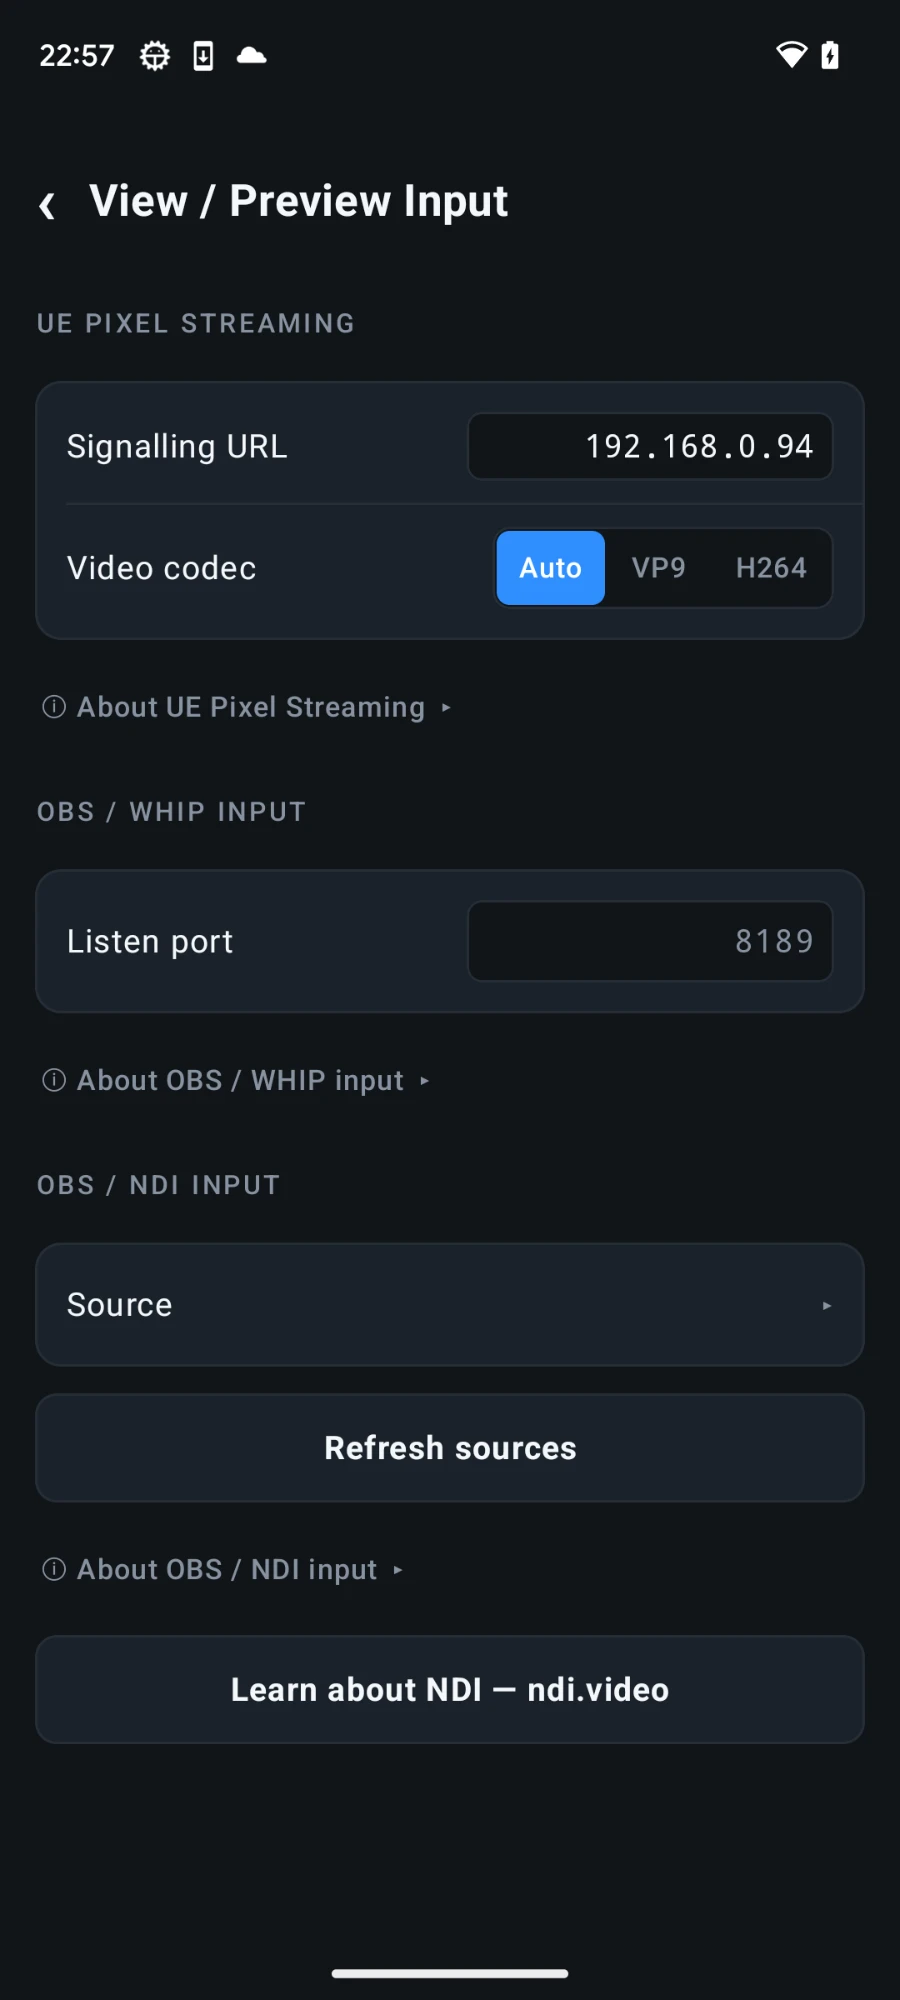
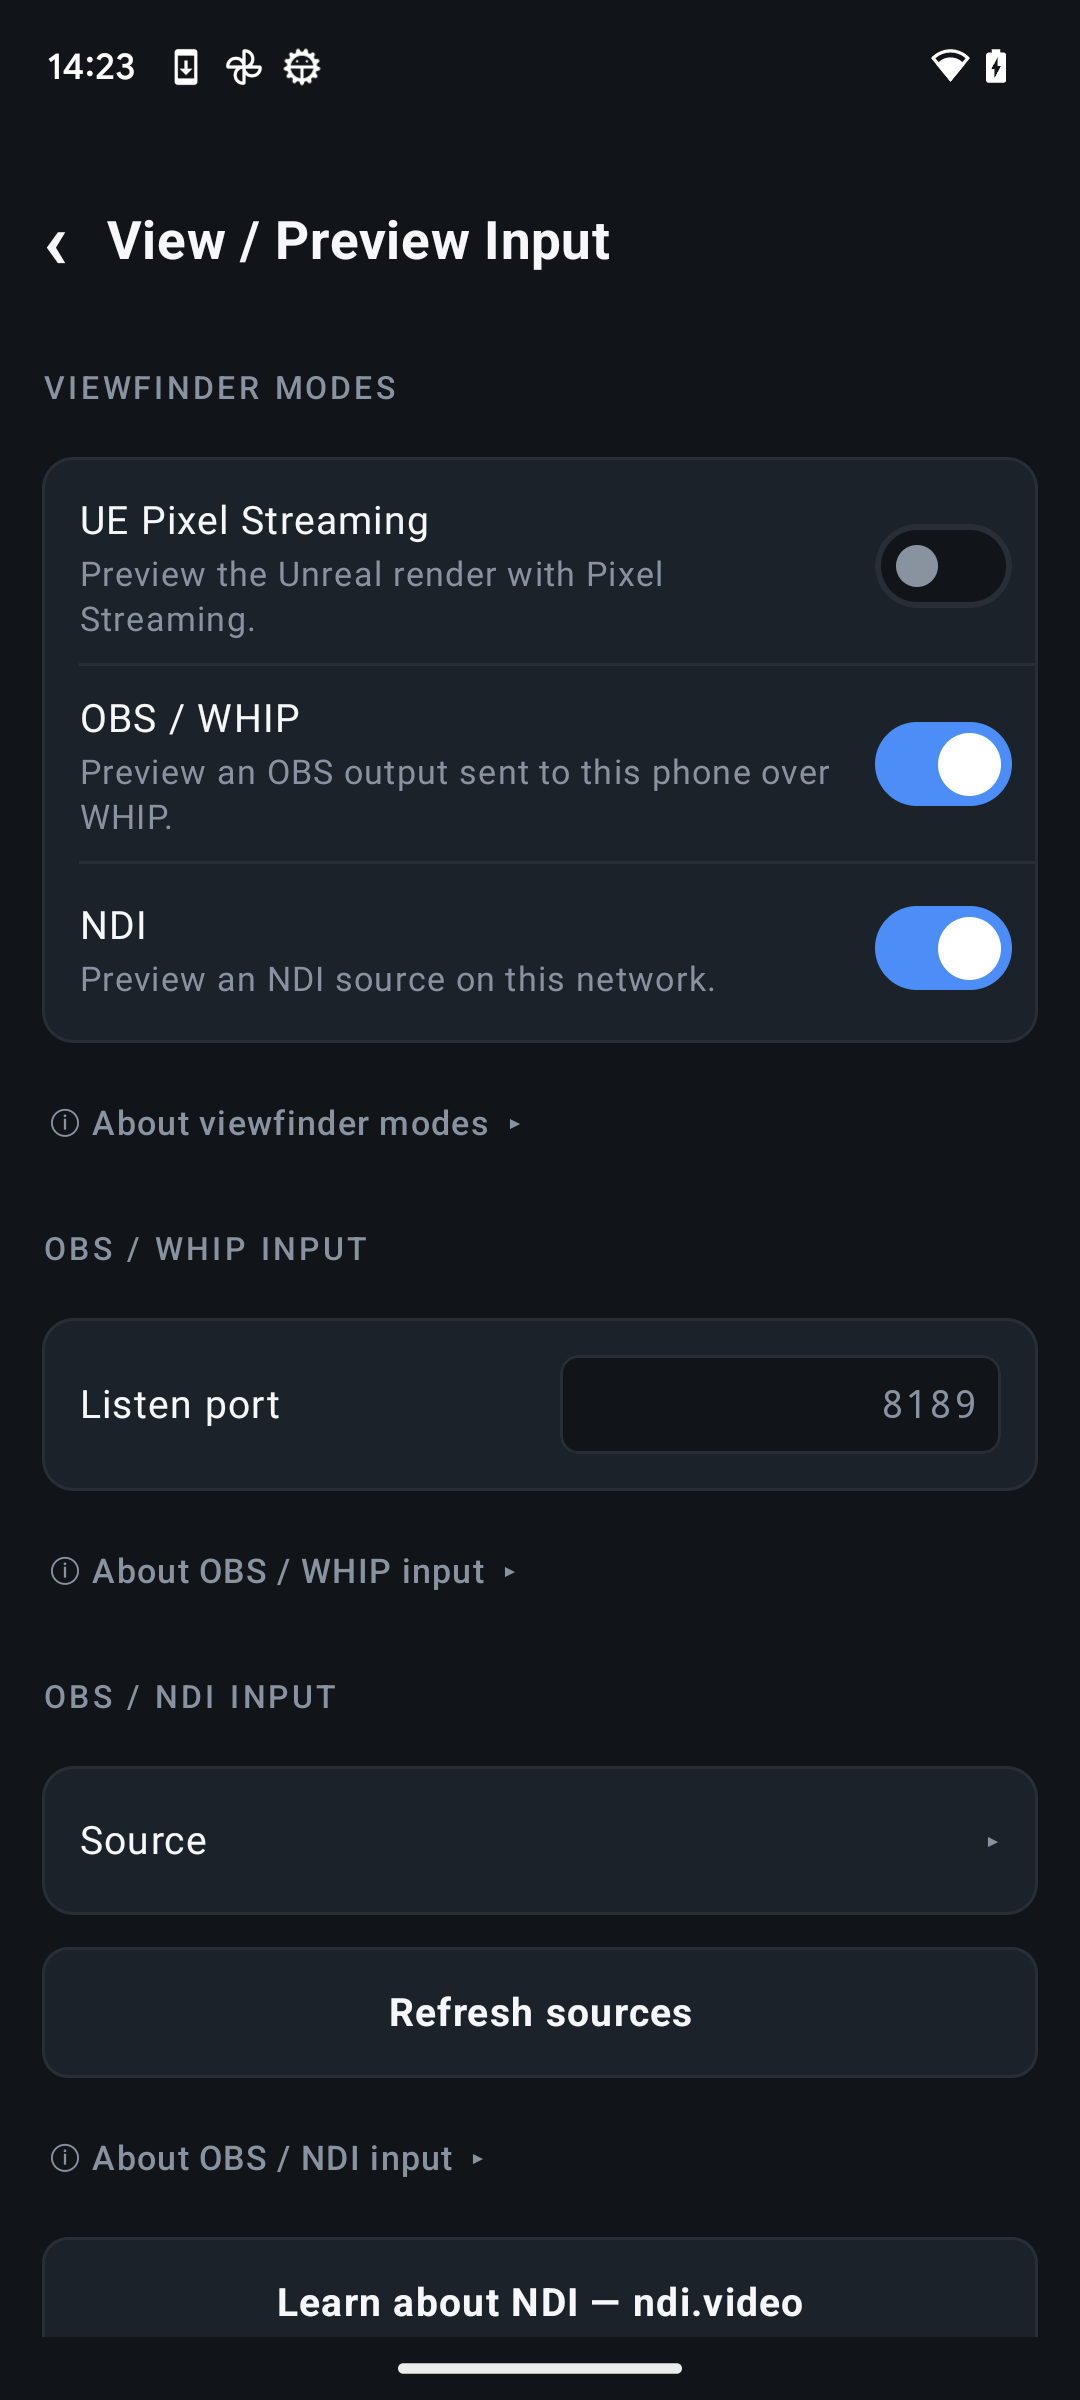
updated obs page

diff --git a/guides/obs-studio.html b/guides/obs-studio.html
@@ -33,6 +33,7 @@
           <a href="#phone">Prepare the phone</a>
           <a href="#whip">Option 1: WHIP</a>
           <a href="#ndi">Option 2: NDI</a>
+          <a href="#responsiveness">Reduce preview lag</a>
           <a href="#verify">Verify the viewfinder</a>
           <a href="#troubleshooting">Troubleshooting</a>
         </aside>
@@ -62,24 +63,26 @@
             <h2>Prepare the phone</h2>
             <ol>
               <li>Open <strong>Settings → View / Preview Input</strong> in 6DoF Camera Tracker.</li>
+              <li>Enable <strong>OBS / WHIP</strong>, <strong>NDI</strong>, or both, depending on the return-video methods you want to use.</li>
               <li>For WHIP, keep the default listen port <strong>8189</strong> unless it conflicts with another service.</li>
               <li>For NDI, use <strong>Refresh sources</strong> after the OBS output has been enabled.</li>
               <li>Return to the tracker and select <strong>OBS</strong> for WHIP or <strong>NDI</strong> for the DistroAV connection.</li>
             </ol>
-            <figure class="guide-figure"><img src="../assets/guides/11a_view_preview_input.png" alt="View and Preview Input settings for OBS WHIP and NDI in 6DoF Camera Tracker" loading="lazy"><figcaption>The app shows the exact WHIP URL for the current phone and lets you discover an NDI source on the local network.</figcaption></figure>
+            <figure class="guide-figure guide-figure-native"><img src="../assets/guides/11a_view_preview_input.png?v=2" alt="Updated View and Preview Input settings for OBS WHIP and NDI in 6DoF Camera Tracker" loading="lazy"><figcaption>Enable the required viewfinder modes, choose the WHIP listen port, and discover an NDI source on the local network.</figcaption></figure>
           </section>
 
           <section id="whip">
             <h2>Option 1: Connect with WHIP</h2>
             <ol>
               <li>On the phone, select the <strong>OBS</strong> viewfinder mode. The status should say that it is listening and waiting for OBS.</li>
-              <li>Copy the Server URL shown under <strong>Settings → View / Preview Input</strong>. It looks like <code>http://192.168.1.50:8189/whip</code>.</li>
+              <li>Build the Server URL from the phone's local IP address and the <strong>Listen port</strong> shown under <strong>Settings → View / Preview Input</strong>. It follows the format <code>http://PHONE_IP:8189/whip</code>.</li>
               <li>In OBS, open <strong>Settings → Stream</strong> and choose <strong>WHIP</strong> as the service.</li>
               <li>Paste the phone's address into <strong>Server</strong> and leave <strong>Bearer Token</strong> blank.</li>
               <li>Select <strong>Apply</strong>, close Settings, and choose <strong>Start Streaming</strong>.</li>
             </ol>
+            <figure class="guide-figure"><img src="../assets/guides/obs_whip_stream_settings.png" alt="OBS Stream settings configured for the WHIP service and the phone server address" loading="lazy"><figcaption>Select WHIP, enter the URL built from the phone IP and listen port, and leave Bearer Token empty.</figcaption></figure>
             <p>OBS now publishes its program output directly to the phone. The stream stops when you choose <strong>Stop Streaming</strong> in OBS or leave OBS mode in the app.</p>
-            <figure class="guide-figure"><img src="../assets/guides/11b_obs_whip_viewfinder.png" alt="OBS WHIP program feed displayed in the 6DoF Camera Tracker viewfinder" loading="lazy"><figcaption>WHIP needs no OBS plugin. Use the URL displayed by the phone and leave the bearer token empty.</figcaption></figure>
+            <figure class="guide-figure"><img src="../assets/guides/11b_obs_whip_viewfinder.png" alt="OBS WHIP program feed displayed in the 6DoF Camera Tracker viewfinder" loading="lazy"><figcaption>WHIP needs no OBS plugin. Use the phone IP and listen port in the server URL, and leave the bearer token empty.</figcaption></figure>
             <p>For the current OBS controls and platform notes, see the official <a href="https://obsproject.com/kb/whip-streaming-guide" target="_blank" rel="noopener noreferrer">OBS WHIP streaming guide</a>.</p>
           </section>
 
@@ -87,14 +90,31 @@
             <h2>Option 2: Connect with DistroAV NDI</h2>
             <ol>
               <li>Install the current DistroAV release that matches your OBS version, including the required NDI runtime, then restart OBS.</li>
-              <li>In OBS, open <strong>Tools → DistroAV NDI Settings</strong>.</li>
-              <li>Enable <strong>Main Output</strong> and give it a recognisable NDI name, such as <code>OBS Program</code>.</li>
+              <li>In the OBS main menu, open <strong>Tools → DistroAV NDI Settings</strong>.</li>
+              <li>Tick the checkbox beside <strong>Main Output</strong> and give it a recognisable NDI name, such as <code>OBS PGM</code>.</li>
               <li>On the phone, open <strong>Settings → View / Preview Input</strong> and select <strong>Refresh sources</strong>.</li>
               <li>Choose the named OBS source, return to the tracker, and select the <strong>NDI</strong> viewfinder mode.</li>
             </ol>
+            <div class="guide-figure-grid">
+              <figure><img src="../assets/guides/obs_distroav_tools_menu.png" alt="DistroAV NDI Settings command in the OBS Tools menu" loading="lazy"><figcaption>After installation, open DistroAV NDI Settings from the OBS Tools menu.</figcaption></figure>
+              <figure><img src="../assets/guides/obs_distroav_main_output.png" alt="Main Output enabled in the DistroAV NDI Settings window" loading="lazy"><figcaption>Enable Main Output and choose the NDI source name that the phone will discover.</figcaption></figure>
+            </div>
             <p>DistroAV publishes the OBS program output while Main Output is enabled; the normal OBS Start Streaming button is not required for this local NDI path.</p>
             <figure class="guide-figure"><img src="../assets/guides/11c_ndi_viewfinder.png" alt="DistroAV NDI program feed displayed in the 6DoF Camera Tracker viewfinder" loading="lazy"><figcaption>NDI can reduce preview latency, but it consumes more CPU and battery on the phone than WHIP.</figcaption></figure>
             <p>Learn more at <a href="https://ndi.video" target="_blank" rel="noopener noreferrer">ndi.video</a>. NDI® is a registered trademark of Vizrt NDI AB.</p>
+          </section>
+
+          <section id="responsiveness">
+            <h2>Reduce preview lag</h2>
+            <p>A smaller video frame and a lower frame rate reduce the amount of data OBS must encode, send across the network, and decode on the phone. This can make either WHIP or NDI feel more responsive, especially on busy Wi-Fi or less powerful phones.</p>
+            <ol>
+              <li>In OBS, open <strong>Settings → Video</strong>.</li>
+              <li>Keep <strong>Base (Canvas) Resolution</strong> at the size needed for your OBS composition.</li>
+              <li>Lower <strong>Output (Scaled) Resolution</strong>. <strong>640 × 360</strong> is a practical starting point for a phone viewfinder.</li>
+              <li>Set <strong>Common FPS Values</strong> to <strong>25</strong> or <strong>30</strong>, then apply the settings and test the response on the phone.</li>
+            </ol>
+            <div class="guide-note"><strong>Balance responsiveness and clarity</strong><p>Lower settings use less bandwidth and processing power, but fine details become harder to judge and fast motion looks less smooth. Increase the resolution or frame rate only as far as the phone and network can handle reliably.</p></div>
+            <figure class="guide-figure"><img src="../assets/guides/obs_video_responsiveness.png" alt="OBS Video settings with a 640 by 360 scaled resolution and 25 frames per second" loading="lazy"><figcaption>Reducing the scaled output to 640 × 360 at 25 fps is a useful starting point when the return viewfinder feels delayed.</figcaption></figure>
           </section>
 
           <section id="verify">
